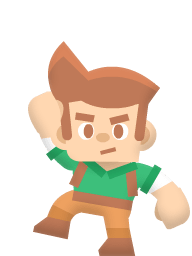
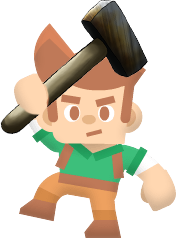
Boy with key and with hammer

diff --git a/src/Boy.java b/src/Boy.java
@@ -10,9 +10,15 @@ public class Boy {
     int cellSide = Values.CELL_SIZE;
     int whatMove = 0; //Stand = 0; Up = 1; Down = 2; Left = 3; Right = 4;
     //shoveLeftAndMove = 5; shoveLeftAndStand = 6; shoveRightAndMove = 7; shoveRightAndStand = 8;
-    //findInChest = 9; holdAStone = 10; attackLeft = 11; attackRight = 12
+    //findInChest = 9; holdAStone = 10;
+    //attackLeft = 11; attackRight = 12; attackLeft = 13; attackRight = 14;
+    //openWithGoldKeyLeft = 15; openWithGoldKeyRight = 16; openWithSilverKeyLeft = 17; openWithSilverKeyRight = 18;
     boolean isMoving = false;
     int i = 0;
+
+    Image standLeft = new ImageIcon("boy/standLeft.png").getImage();
+    Image standRight = new ImageIcon("boy/standRight.png").getImage();
+    Image standClear = new ImageIcon("boy/standClear.png").getImage();
 
     Image walkUp0 = new ImageIcon("boy/walkUp0.png").getImage();
     Image walkUp1 = new ImageIcon("boy/walkUp1.png").getImage();
@@ -21,9 +27,8 @@ public class Boy {
             walkUp0, walkUp0, walkUp2};
 
     Image walkDown0 = new ImageIcon("boy/walkDown0.png").getImage();
-    Image standRight = new ImageIcon("boy/standRight.png").getImage();
     Image[] arrayDown = {walkDown0, walkDown0, standRight, standRight,
-            walkDown0, walkDown0, standRight};
+            walkDown0, walkDown0, standClear};
 
     Image walkLeft0 = new ImageIcon("boy/walkLeft0.png").getImage();
     Image walkLeft1 = new ImageIcon("boy/walkLeft1.png").getImage();
@@ -48,30 +53,50 @@ public class Boy {
     Image shoveLeft = new ImageIcon("boy/shoveLeft.png").getImage();
     Image shoveRight = new ImageIcon("boy/shoveRight.png").getImage();
     Image[] arrayShoveLeft = {shoveLeft, shoveLeft, shoveLeft, standRight, shoveLeft,
-            shoveLeft, standRight};
+            shoveLeft, standLeft};
     Image[] arrayShoveRight = {shoveRight, shoveRight, shoveRight, standRight,
             shoveRight, shoveRight, standRight};
 
     Image lookInChest = new ImageIcon("boy/lookInChest.png").getImage();
     Image cheer = new ImageIcon("boy/cheer.png").getImage();
-    Image[] arrayFindInChest = {lookInChest, lookInChest, lookInChest, cheer, cheer, cheer, standRight};
+    Image[] arrayFindInChest = {lookInChest, lookInChest, lookInChest, cheer, cheer, cheer, standClear};
 
     Image imHoldAStone = new ImageIcon("boy/holdAStone.png").getImage();
+
+    //images attack up
+    Image[] arrayAttackUp = {};
+    //images attack down
+    Image[] arrayAttackDown = {};
 
     Image attackLeft0 = new ImageIcon("boy/attackLeft0.png").getImage();
     Image attackLeft1 = new ImageIcon("boy/attackLeft1.png").getImage();
     Image attackLeft2 = new ImageIcon("boy/attackLeft2.png").getImage();
     Image[] arrayAttackLeft = {attackLeft0, attackLeft0, attackLeft1, attackLeft1,
-            attackLeft2, attackLeft2, standRight};
+            attackLeft2, attackLeft2, standLeft};
 
     Image attackRight0 = new ImageIcon("boy/attackRight0.png").getImage();
     Image attackRight1 = new ImageIcon("boy/attackRight1.png").getImage();
     Image attackRight2 = new ImageIcon("boy/attackRight2.png").getImage();
-    Image standLeft = new ImageIcon("boy/standLeft.png").getImage();
     Image[] arrayAttackRight = {attackRight0, attackRight0, attackRight1, attackRight1,
-            attackRight2, attackRight2, standLeft};
+            attackRight2, attackRight2, standRight};
 
-    Image currentPicture = walkRight6;
+    Image holdGoldKeyLeft = new ImageIcon("boy/holdGoldKeyLeft.png").getImage();
+    Image[] arrayOpenWithGoldKeyLeft = {holdGoldKeyLeft, holdGoldKeyLeft,
+            holdGoldKeyLeft, holdGoldKeyLeft, cheer, cheer, standLeft};
+
+    Image holdGoldKeyRight = new ImageIcon("boy/holdGoldKeyRight.png").getImage();
+    Image[] arrayOpenWithGoldKeyRight = {holdGoldKeyRight, holdGoldKeyRight,
+            holdGoldKeyRight, holdGoldKeyRight, cheer, cheer, standRight};
+
+    Image holdSilverKeyLeft = new ImageIcon("boy/holdSilverKeyLeft.png").getImage();
+    Image[] arrayOpenWithSilverKeyLeft = {holdSilverKeyLeft, holdSilverKeyLeft,
+            holdSilverKeyLeft, holdSilverKeyLeft, cheer, cheer, standLeft};
+
+    Image holdSilverKeyRight = new ImageIcon("boy/holdSilverKeyRight.png").getImage();
+    Image[] arrayOpenWithSilverKeyRight = {holdSilverKeyRight, holdSilverKeyRight,
+            holdSilverKeyRight, holdSilverKeyRight, cheer, cheer, standRight};
+
+    Image currentPicture = standClear;
 
     public Boy(int x, int y){
         this.x = x;
@@ -136,6 +161,16 @@ public class Boy {
         i++;
     }
 
+    public void attackUp(){
+        currentPicture = arrayAttackUp[i];
+        i++;
+    }
+
+    public void attackDown(){
+        currentPicture = arrayAttackDown[i];
+        i++;
+    }
+
     public void attackLeft(){
         currentPicture = arrayAttackLeft[i];
         i++;
@@ -145,4 +180,26 @@ public class Boy {
         currentPicture = arrayAttackRight[i];
         i++;
     }
+
+    public void openWithGoldKeyLeft(){
+        currentPicture = arrayOpenWithGoldKeyLeft[i];
+        i++;
+    }
+
+    public void openWithGoldKeyRight(){
+        currentPicture = arrayOpenWithGoldKeyRight[i];
+        i++;
+    }
+
+    public void openWithSilverKeyLeft(){
+        currentPicture = arrayOpenWithSilverKeyLeft[i];
+        i++;
+    }
+
+    public void openWithSilverKeyRight(){
+        currentPicture = arrayOpenWithSilverKeyRight[i];
+        i++;
+    }
+
+
 }

diff --git a/src/PlayPanel.java b/src/PlayPanel.java
@@ -40,6 +40,7 @@ public class PlayPanel extends JPanel implements KeyListener {
             }
         }
         g2.drawImage(boy.currentPicture, boy.x, boy.y, boy.width, boy.height, null);
+        //System.out.println(boy.isMoving);
     }
 
     private void moveBoy(){
@@ -57,8 +58,14 @@ public class PlayPanel extends JPanel implements KeyListener {
                 else if (boy.whatMove == 8) boy.shoveRightAndStand();
                 else if (boy.whatMove == 9) boy.findInChest();
                 else if (boy.whatMove == 10) boy.holdAStone();
-                else if (boy.whatMove == 11) boy.attackLeft();
-                else if (boy.whatMove == 12) boy.attackRight();
+                else if (boy.whatMove == 11) boy.attackUp();
+                else if (boy.whatMove == 12) boy.attackDown();
+                else if (boy.whatMove == 13) boy.attackLeft();
+                else if (boy.whatMove == 14) boy.attackRight();
+                else if (boy.whatMove == 15) boy.openWithGoldKeyLeft();
+                else if (boy.whatMove == 16) boy.openWithGoldKeyRight();
+                else if (boy.whatMove == 17) boy.openWithSilverKeyLeft();
+                else if (boy.whatMove == 18) boy.openWithSilverKeyRight();
                 repaint();
                 if (boy.i == 7){
                     boy.i = 0;
@@ -77,37 +84,39 @@ public class PlayPanel extends JPanel implements KeyListener {
 
     @Override
     public void keyPressed(KeyEvent e) {
-        if(e.getKeyCode()==KeyEvent.VK_UP){
+        if((e.getKeyCode()==KeyEvent.VK_UP)&&(boy.isMoving == false)){
             boy.whatMove = 1;
-            if (boy.isMoving == false){
-                boy.isMoving = true;
-                moveBoy();
-            }
+            boy.isMoving = true;
+            moveBoy();
         }
-        if(e.getKeyCode()==KeyEvent.VK_DOWN){
+        if((e.getKeyCode()==KeyEvent.VK_DOWN)&&(boy.isMoving == false)){
             boy.whatMove = 2;
-            if (boy.isMoving == false){
-                boy.isMoving = true;
-                moveBoy();
-            }
+            boy.isMoving = true;
+            moveBoy();
         }
-        if(e.getKeyCode()==KeyEvent.VK_LEFT){
+        if((e.getKeyCode()==KeyEvent.VK_LEFT)&&(boy.isMoving == false)){
             boy.whatMove = 3;
             //if stone is left boy.whatMove = 5;
             //if wall is left boy.whatMove = 6;
-            if (boy.isMoving == false){
-                boy.isMoving = true;
-                moveBoy();
-            }
+            boy.isMoving = true;
+            moveBoy();
         }
-        if(e.getKeyCode()==KeyEvent.VK_RIGHT){
+        if((e.getKeyCode()==KeyEvent.VK_RIGHT)&&(boy.isMoving == false)){
             boy.whatMove = 4;
             //if stone is right boy.whatMove = 7;
             //if wall is right boy.whatMove = 8;
-            if (boy.isMoving == false){
-                boy.isMoving = true;
-                moveBoy();
-            }
+            boy.isMoving = true;
+            moveBoy();
+        }
+        if((e.getKeyCode()==KeyEvent.VK_SPACE)&&(boy.isMoving == false)){
+            if (boy.currentPicture == boy.walkUp2) boy.whatMove = 11;
+            else if (boy.currentPicture == boy.standClear) boy.whatMove = 12;
+            else if ((boy.currentPicture == boy.standLeft)
+                    ||(boy.currentPicture == boy.walkLeft6)) boy.whatMove = 13;
+            else if ((boy.currentPicture == boy.standRight)
+                    ||(boy.currentPicture == boy.walkRight6)) boy.whatMove = 14;
+            boy.isMoving = true;
+            moveBoy();
         }
     }
 
